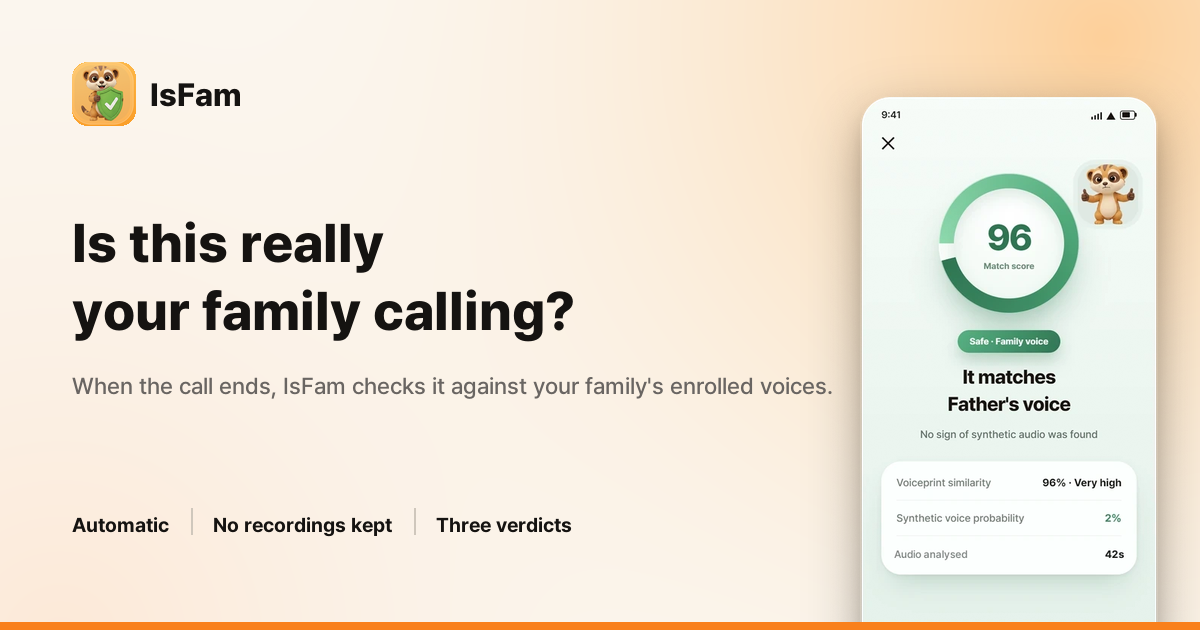
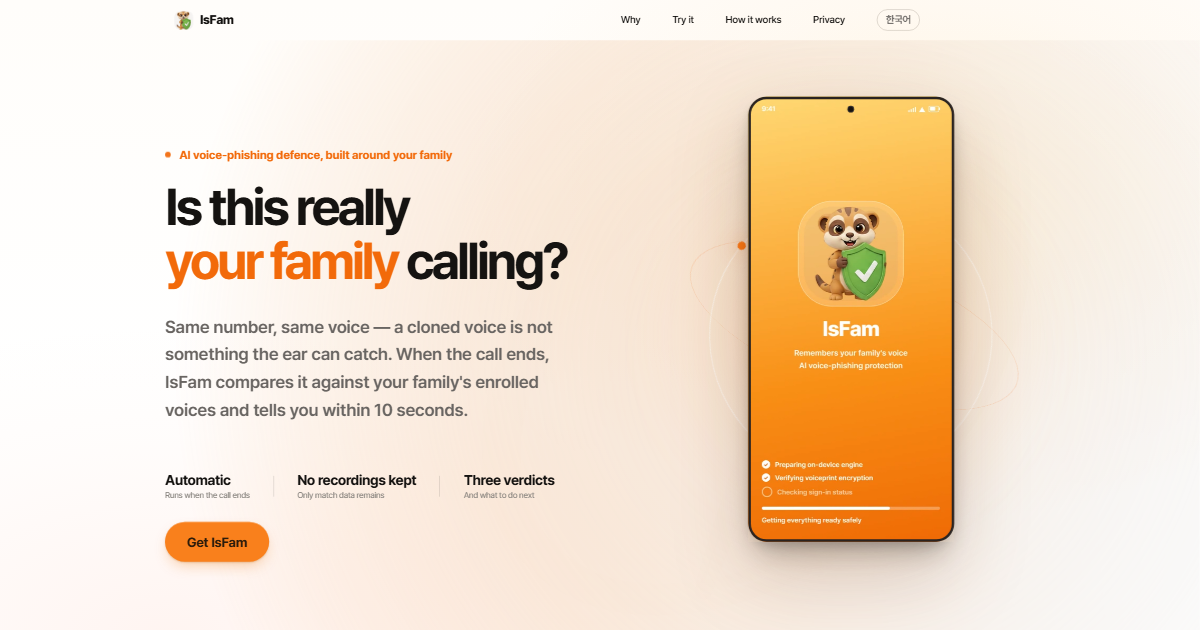
fix: 링크 미리보기를 실제 히어로 화면으로 교체
따로 만든 카드 그림이라 눌러서 나오는 화면과 달랐다. 미리보기는 클릭
했을 때 볼 것을 보여 줘야 한다. 배포된 히어로를 그대로 찍는다.

1200x630 뷰포트로 찍으면 세로가 모자라 폰 목업 아래가 잘린다. 더 넓은
뷰포트(1440x756, 같은 1.905:1)로 레이아웃을 잡고 deviceScaleFactor 를
1 미만으로 줘서 브라우저가 처음부터 1200x630 으로 래스터화하게 했다.
찍고 나서 줄이는 것보다 선명하고 파일도 작다(504KB -> 440KB).

tools/shoot-og.mjs 로 남긴다. 히어로를 고치면 다시 돌려야 미리보기가
따라오므로 PROJECT_GUIDE 에 절차를 적었다.

eslint 는 tools/ 를 브라우저 코드로 보고 process·console 을 미정의로
잡았다. Node 전역을 여는 블록을 더한다. page.evaluate 안쪽은 브라우저
코드라 두 전역을 모두 연다.

diff --git a/eslint.config.js b/eslint.config.js
@@ -24,4 +24,12 @@ export default [
       "no-unused-vars": ["error", { argsIgnorePattern: "^_", varsIgnorePattern: "^_" }],
     },
   },
+  {
+    // tools/ 는 브라우저가 아니라 Node 에서 도는 도구다. 다만 Playwright 의
+    // page.evaluate 안쪽은 브라우저 코드라 두 전역을 모두 열어 둔다
+    files: ["tools/**/*.{js,mjs}"],
+    languageOptions: {
+      globals: { ...globals.node, ...globals.browser },
+    },
+  },
 ];

diff --git a/PROJECT_GUIDE.md b/PROJECT_GUIDE.md
@@ -113,6 +113,22 @@ npm run build      # 배포용 빌드 (한국어·영어 두 페이지가 함께
 
 `dist` 폴더는 `npm run build` 실행 시 자동으로 다시 생성되므로 직접 수정하지 않습니다.
 
+## 링크 미리보기 이미지
+
+메신저나 메일에 주소를 붙였을 때 뜨는 카드 그림입니다. 실제 히어로 화면을 그대로
+찍어 쓰므로, **히어로 문구나 디자인을 바꾸면 다시 찍어야** 미리보기가 따라옵니다.
+
+```bash
+node tools/shoot-og.mjs                       # 배포본에서 찍는다
+node tools/shoot-og.mjs http://localhost:4173 # 미리보기 서버에서
+```
+
+배포본에서 찍는 것이 기본이라, 바뀐 화면을 먼저 배포한 뒤 실행하고 나온
+`public/assets/og-ko.png`·`og-en.png`를 담아 한 번 더 배포하는 순서가 됩니다.
+
+각 플랫폼이 미리보기를 오래 캐시하므로, 바꾼 뒤에는 한 번씩 갱신해 둡니다
+(페이스북·카카오톡은 <https://developers.facebook.com/tools/debug/>).
+
 ## 배포
 
 Cloudflare Pages **Direct Upload** 방식입니다(Git 연결이 아닙니다).
